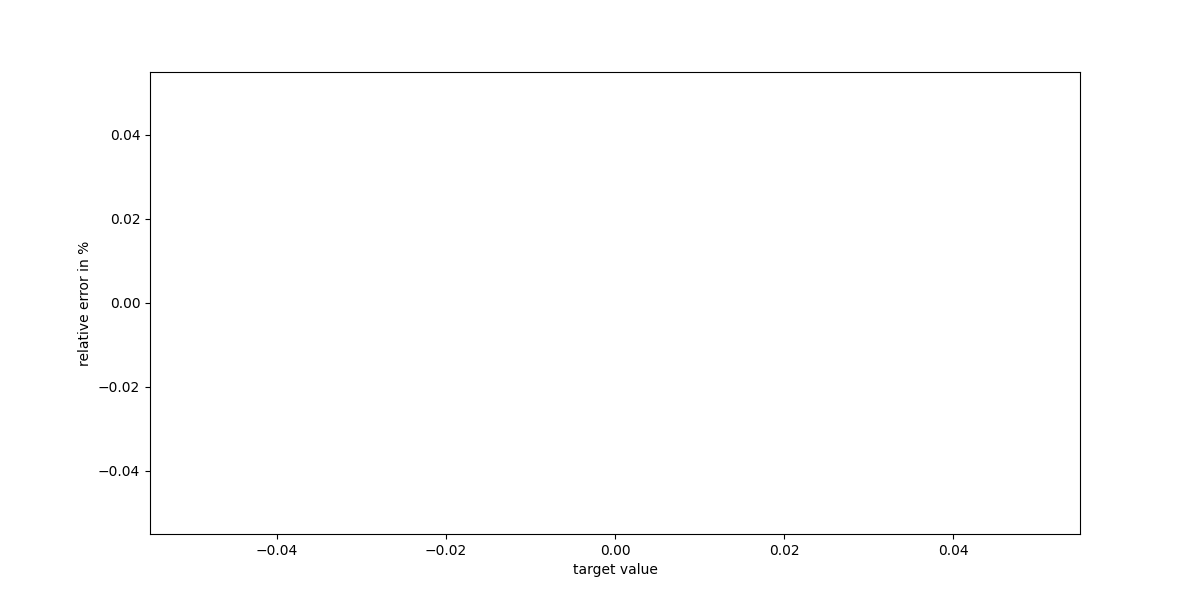
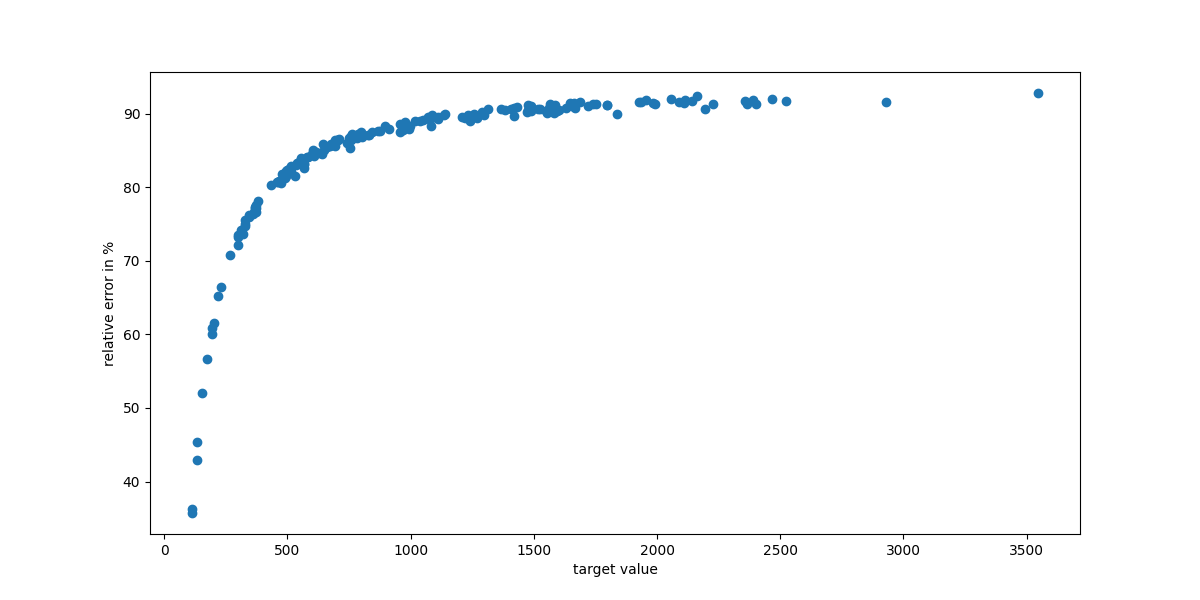
updated

diff --git a/sand_calc.py b/sand_calc.py
@@ -26,8 +26,6 @@ def my_rel():
         y = df.rel_error
         y *= 100
         x = df.target
-        x = x[y < 2]
-        y = y[y < 2]
         plt.scatter(x, y)
         plt.savefig(os.path.join(my_path, f'epoch_{i}', 'rel_error_fig.png'))
 
